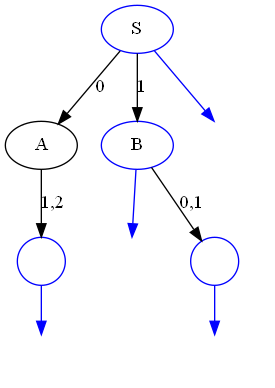
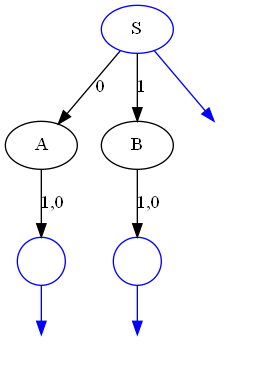
left body type is added

diff --git a/gr_aut_task.py b/gr_aut_task.py
@@ -73,7 +73,10 @@ class GrammarAutomataTask(QDialog):
                 elif body == 'lambda':
                     nodes[head].add_edge('None', '')
                 else:
-                    nodes[head].add_edge(body[1:], body[0])
+                    if self.left_body.isChecked():
+                        nodes[head].add_edge(body[:-1], body[-1])
+                    else:                        
+                        nodes[head].add_edge(body[1:], body[0])
             if output_bodies != '':
                 nodes[head].add_edge('Finals', output_bodies[:-1])
 
